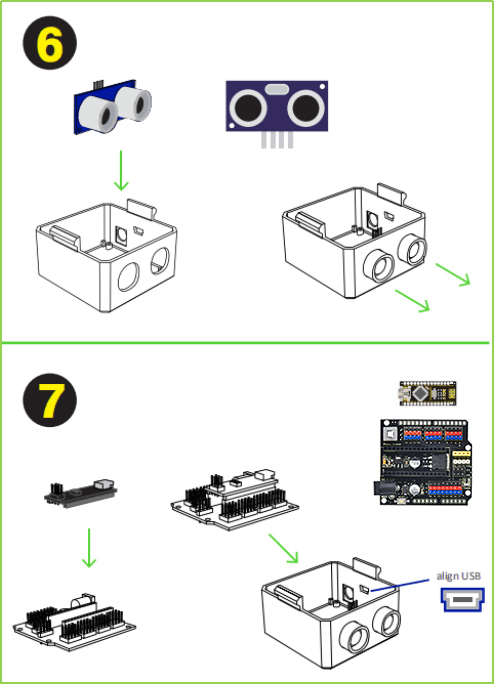
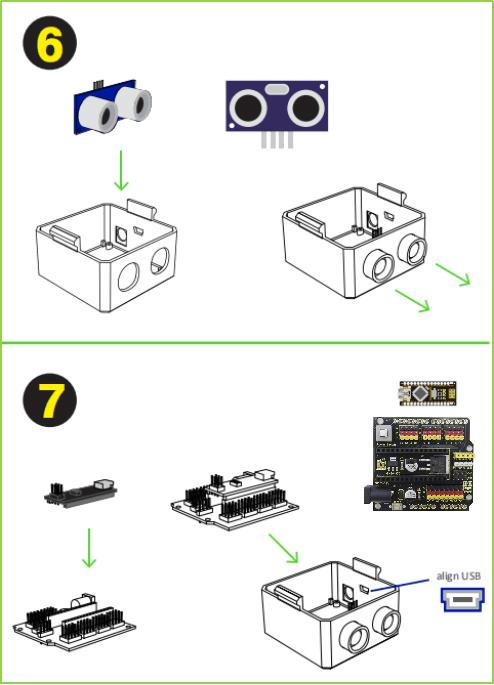
20261104

diff --git a/KS0358.md b/KS0358.md
@@ -1,6 +1,6 @@
 # **Keyestudio Electronic Parts DIY Kit For OTTO Robot Maker**
 
-![KS0358 OTTO 机器人DIY套件 (1)](media/c92d32eef9845e3499df189933b79b90.jpeg)
+![1](media/1.jpg)
 
 ## 1.What is Otto DIY ?
 
@@ -18,24 +18,24 @@ NO SOLDERING REQUIRED!
 
 Note: the print parts are Not Included!
 
-| **No.** | **Component**                | **Quantity** | **Picture**                                                                                                                                               |
-|:-------:|------------------------------|:------------:|:---------------------------------------------------------------------------------------------------------------------------------------------------------:|
-| 1       | NANO Shield                  | 1            | ![](media/ee05c2b559e4dd4528acbbd57d01ceb1.png)                                                                                                           |
-| 2       | Keyestudio Nano CH340        | 1            | ![](media/0e0fe3bf2b35d0017bb9f14f97561144.png)                                                                                                           |
-| 3       | HC-SR04 Ultrasound Sensor    | 1            | ![](media/f13000383f5a1690ea232ad848870d99.png)                                                                                                           |
-| 4       | HC-06 Bluetooth Module       | 1            | ![](media/048cf1bb7d8dd5b9a59cdf9144895b77.png)                                                                                                           |
-| 5       | Micro Servo 9G               | 4            | ![](media/e99769584120c646e1c180257d29efa2.png)                                                                                                           |
-| 6       | Passive Buzzer               | 1            | ![](media/fd8bcc083e7babb821d38668bece034b.png)                                                                                                           |
-| 7       | Phillips Screwdriver         | 1            | ![](media/416adb9fe3c08b1881ecb2bbd214ebd7.png)                                                                                                           |
-| 8       | 200mm Black Connector Wire   | 2            | ![](media/c2179c20c6da593bf1ad30c9de3645b7.png)                                                                                                           |
-| 9       | USB Cable                    | 1            | ![](media/43c5df805bef798f3eec44a30363dbae.png)                                                                                                           |
-| 10      | 200mm Red Connector Wire     | 2            | ![](media/1a26fcb47032604f7cc2068794430152.png)                                                                                                           |
-| 11      | Female to Female Jumper Wire | 10           | ![](media/867d75d75146b6b372140835a5073acc.png)                                                                                                           |
-| 12      | Self-locking Push Switch     | 1            | ![](media/f00defea7ed3d71d4ae1a2dbf4880a18.png)                                                                                                           |
-| 13      | M2\*12MM Round-head Screw    | 2            | ![](media/f845fae7d776072a5c8467386db522a6.png)                                                                                                           |
-| 14      | M2 Nut                       | 2            | ![](media/72e52aeecb0fcb11756c91170c39a69e.png)                                                                                                           |
-| 15      | M2X5MM Tapping Screw         | 4            | ![](media/c784a5f6e95a5afedd55c75816df3ca3.png)                                                                                                           |
-| 16      | 4 AA Battery Case with lead  | 1            | ![](media/0eebaed3c7952d74550843a439d7d2f0.png) |
+| **No.** | **Component**                | **Quantity** |                         **Picture**                          |
+| :-----: | ---------------------------- | :----------: | :----------------------------------------------------------: |
+|    1    | NANO Shield                  |      1       | ![image-20261104132711237](media/image-20261104132711237.png) |
+|    2    | Keyestudio Nano CH340        |      1       |       ![](media/0e0fe3bf2b35d0017bb9f14f97561144.png)        |
+|    3    | HC-SR04 Ultrasound Sensor    |      1       |       ![](media/f13000383f5a1690ea232ad848870d99.png)        |
+|    4    | HC-06 Bluetooth Module       |      1       |       ![](media/048cf1bb7d8dd5b9a59cdf9144895b77.png)        |
+|    5    | Micro Servo 9G               |      4       |       ![](media/e99769584120c646e1c180257d29efa2.png)        |
+|    6    | Passive Buzzer               |      1       |       ![](media/fd8bcc083e7babb821d38668bece034b.png)        |
+|    7    | Phillips Screwdriver         |      1       |       ![](media/416adb9fe3c08b1881ecb2bbd214ebd7.png)        |
+|    8    | 200mm Black Connector Wire   |      2       |       ![](media/c2179c20c6da593bf1ad30c9de3645b7.png)        |
+|    9    | USB Cable                    |      1       |       ![](media/43c5df805bef798f3eec44a30363dbae.png)        |
+|   10    | 200mm Red Connector Wire     |      2       |       ![](media/1a26fcb47032604f7cc2068794430152.png)        |
+|   11    | Female to Female Jumper Wire |      10      |       ![](media/867d75d75146b6b372140835a5073acc.png)        |
+|   12    | Self-locking Push Switch     |      1       |       ![](media/f00defea7ed3d71d4ae1a2dbf4880a18.png)        |
+|   13    | M2\*12MM Round-head Screw    |      2       |       ![](media/f845fae7d776072a5c8467386db522a6.png)        |
+|   14    | M2 Nut                       |      2       |       ![](media/72e52aeecb0fcb11756c91170c39a69e.png)        |
+|   15    | M2X5MM Tapping Screw         |      4       |       ![](media/c784a5f6e95a5afedd55c75816df3ca3.png)        |
+|   16    | 4 AA Battery Case with lead  |      1       |       ![](media/0eebaed3c7952d74550843a439d7d2f0.png)        |
 
 ## 3.3D Printing Parts
 
@@ -139,7 +139,7 @@ Then follow the diagram pins numbers and make sure to put them in the right posi
 
 **![OTTO step 9](media/06729f8b25221fa14fdf465d2844a2c7.png)**
 
-**![KS0358](media/567b27b5f7235dab77c38fda956f1d7e.png)**
+![2](media/2.jpg)
 
 **Special note:**
 
